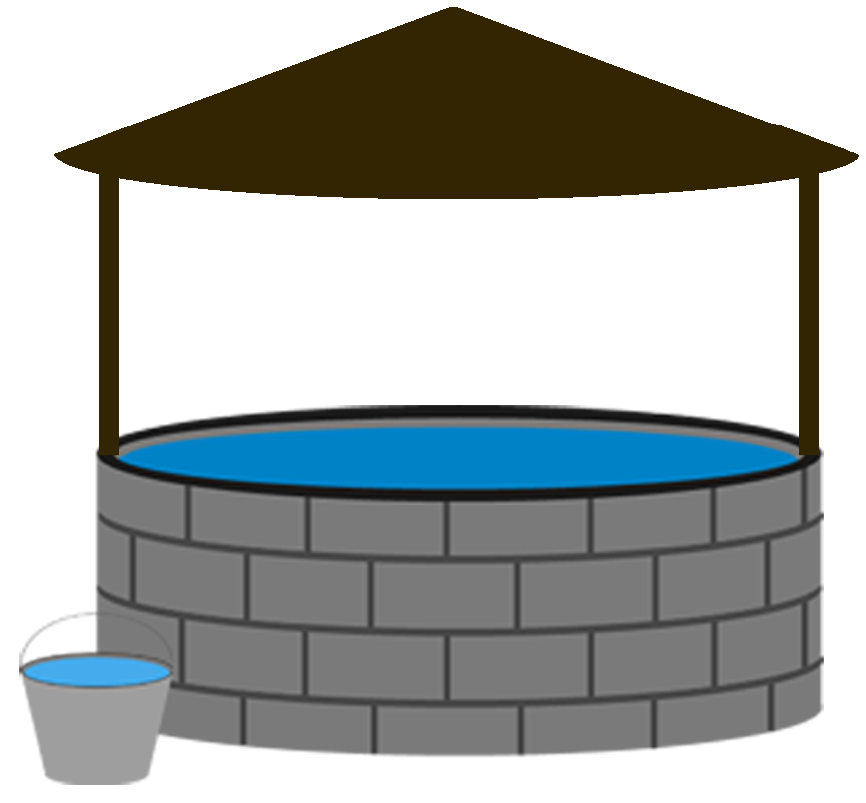
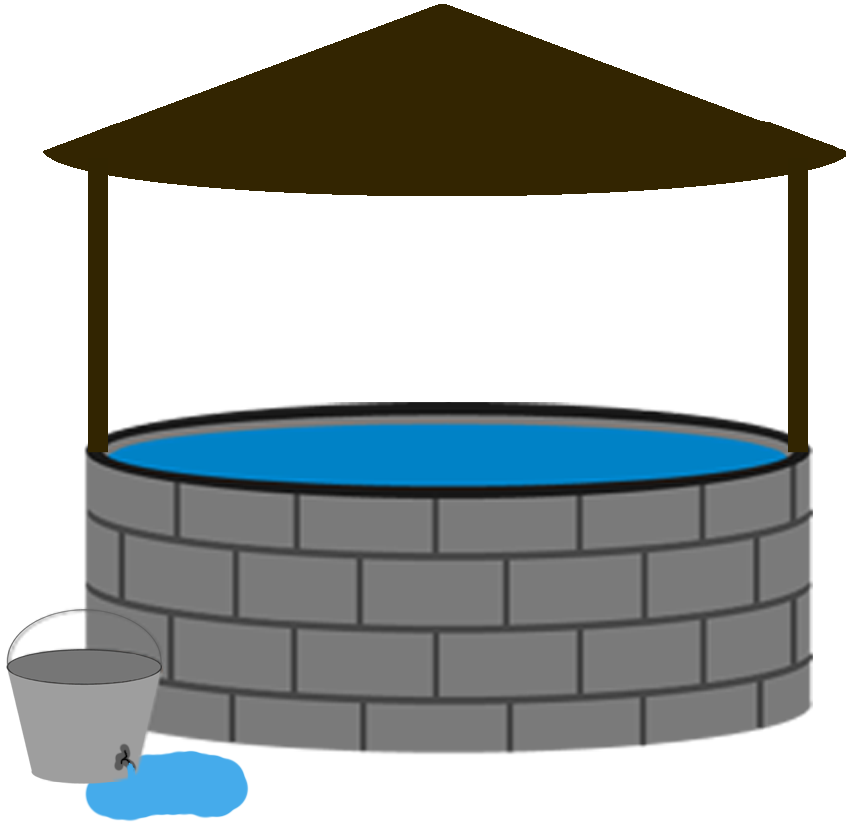
Fix a bunch of images and add help text to collection game

diff --git a/public/javascripts/CollectionMinigame.js b/public/javascripts/CollectionMinigame.js
@@ -17,21 +17,22 @@ stage.prototype = {
         game.load.image('latrines_scene', 'images/collection_minigame/latrines_scene.png');
         game.load.image('house', 'images/town/house.png');
         game.load.image('house2', 'images/town/house2.png');
-        game.load.image('house_scene', 'images/filtration_minigame/filtration_background.png');
+        game.load.image('house_scene', 'images/collection_minigame/house_scene.png');
         game.load.image('waterbucket', 'images/town/empty_water.png');
         game.load.image('waterPump', 'images/town/waterPump.png');
         game.load.image('waterPump_scene', 'images/collection_minigame/waterPump_scene.png');
         game.load.image('well', 'images/town/well.png');
         game.load.image('well_scene', 'images/collection_minigame/well_scene.png');
         game.load.image('done', 'images/collection_minigame/done.png');
-        game.load.image('mom', 'images/filtration_minigame/catmom.png');
+        game.load.image('dog', 'images/town/dog.png');
         game.load.image('black', 'images/collection_minigame/black.png');
         game.load.image('white', 'images/collection_minigame/white.png');
         game.load.image('player', 'images/bunnykid.png');
-        game.load.image('question', 'images/collection_minigame/question.png');
+        game.load.image('home', 'images/town/home.png');
         game.load.image('sidebar', 'images/collection_minigame/sidebar.png');
         game.load.image('text-background', 'images/dialogue/dialogue-text-background.png');
-        this.game.load.image('right-arrow', 'images/dialogue/right-arrow.png')
+        game.load.image('right-arrow', 'images/dialogue/right-arrow.png');
+        game.load.image('speech_bubble', 'images/collection_minigame/speech_bubble.png');
     },
 
     create: function() {
@@ -88,12 +89,27 @@ stage.prototype = {
         waterbucket.input.useHandCursor = true;
         scaleTo(80, 80, waterbucket);
         mainGroup.add(waterbucket);
-        done = game.add.button(10, 25, 'mom', this.checkMap);
-        scaleTo(80, 200, done);
+        done = game.add.button(20, 30, 'dog', this.checkMap);
+        scaleTo(80, 180, done);
         mainGroup.add(done);
-        var question = game.add.button(20, 510, 'question', function(button) {
-            start.visible = true;
+        done.input.useHandCursor = true;
+        var speech_bubble = game.add.button(65, 10, 'speech_bubble', this.checkMap);
+        speech_bubble.input.useHandCursor = true;
+        scaleTo(110, 110, speech_bubble);
+        mainGroup.add(speech_bubble);
+        var text = game.add.text(70, 15, "Drag the bowl and click me when you're done!", {
+            fill: "#000",
+            font: "12px Helvetica Neue",
+            wordWrap: true,
+            wordWrapWidth: 100,
+            align: "center"
         });
+        mainGroup.add(text);
+        var question = game.add.button(20, 510, 'home', function(button) {
+            mainGroup.destroy();
+            game.state.start('villageState');
+        });
+        question.input.useHandCursor = true;
         mainGroup.add(question);
     },
     
@@ -110,7 +126,9 @@ stage.prototype = {
     checkMap: function(button) {
         waterSource = findClosest(waterbucket);
         text = "";
-        if (features[waterSource.name].safeWater()) {
+        if (!waterSource) {
+            
+        } else if (features[waterSource.name].safeWater()) {
             waterDistance = calculateDistance(house, waterSource);
             if (waterDistance < 800) {
                 winModal(button, "well");
@@ -126,8 +144,10 @@ stage.prototype = {
         }
         
         function findClosest(feature) {
-            if (feature.x < 325) {
+            if (feature.x < 325 && feature.x > 100) {
                 return river;
+            } else if (feature.x <= 100) {
+                return null;
             }
             shortestDistance = 1000;
             closestFeature = null;
@@ -242,7 +262,6 @@ var createImageModal = function(button) {
     modal.visible = true;
 }
 
-
 var winModal = function(button, featureName) {
     mainGroup.visible = false;
     var feature = features[featureName];
@@ -252,6 +271,9 @@ var winModal = function(button, featureName) {
     scaleTo(800, 600, image);
     modal.add(image);
     modal.add(textBackground);
+    var dog = modal.create(50, 200, 'dog');
+    scaleTo(150, 300, dog);
+    modal.add(dog);
     modal.add(new Phaser.Text(button.game, 110+12, 506+12, feature.explanationWater, {
         font: '18px Helvetica Neue',
         fill: 'black',

diff --git a/public/javascripts/VillageState.js b/public/javascripts/VillageState.js
@@ -112,9 +112,10 @@ VillageState.prototype.create = function() {
   var collectionBg = collectionGroup.create(0, 0, 'npc_bg1');
   scaleTo(800, 600, collectionBg);
   var collection_p1 = collectionGroup.create(100, 150, 'player');
-  var collection_p2 = collectionGroup.create(500, 150, 'mom');
-  scaleTo(400, 300, collection_p1);
-  scaleTo(400, 300, collection_p2);
+  var collection_p2 = collectionGroup.create(600, 150, 'mom');
+  scaleTo(150, 300, collection_p1);
+  scaleTo(150, 300, collection_p2);
+  collection_p2.scale.x *= -1;
   collectionGroup.visible = false;
 
   if (game.playerData.inventory.waterbucket) {
@@ -176,9 +177,9 @@ VillageState.prototype.create = function() {
   var npc_bg2 = new Phaser.Image(this.game, 0, 0, 'npc_bg2');
   scaleTo(800, 600, npc_bg2);
   npc_group2.add(npc_bg2);
-  var flamingo_group2 = npc_group2.create(100, 150, 'flamingo');
+  var flamingo_group2 = npc_group2.create(500, 150, 'flamingo');
   scaleTo(400, 300, flamingo_group2);
-  var player_group = npc_group2.create(500, 150, 'player');
+  var player_group = npc_group2.create(100, 150, 'player');
   scaleTo(400, 300, player_group);
   npc_group2.visible = false;
 

diff --git a/README.md b/README.md
@@ -2,3 +2,18 @@ cholera-crossing
 ================
 
 6.073 Project 4
+
+**Final Game:** [http://test-goragora.rhcloud.com/](http://test-goragora.rhcloud.com/)
+
+## Testing Builds
+
+**Build 1:** [http://choleracrossing-rswang.rhcloud.com/](http://choleracrossing-rswang.rhcloud.com/)
+
+**Build 2:** [http://playtest-cholera.rhcloud.com/](http://playtest-cholera.rhcloud.com/)
+
+**Build 3:** [http://playtest2-cholera.rhcloud.com/](http://playtest2-cholera.rhcloud.com/)
+
+**Build 4:** [http://playtest3-cholera.rhcloud.com/](http://playtest3-cholera.rhcloud.com/)
+
+**Build 5:** [http://test-goragora.rhcloud.com/](http://test-goragora.rhcloud.com/)
+
